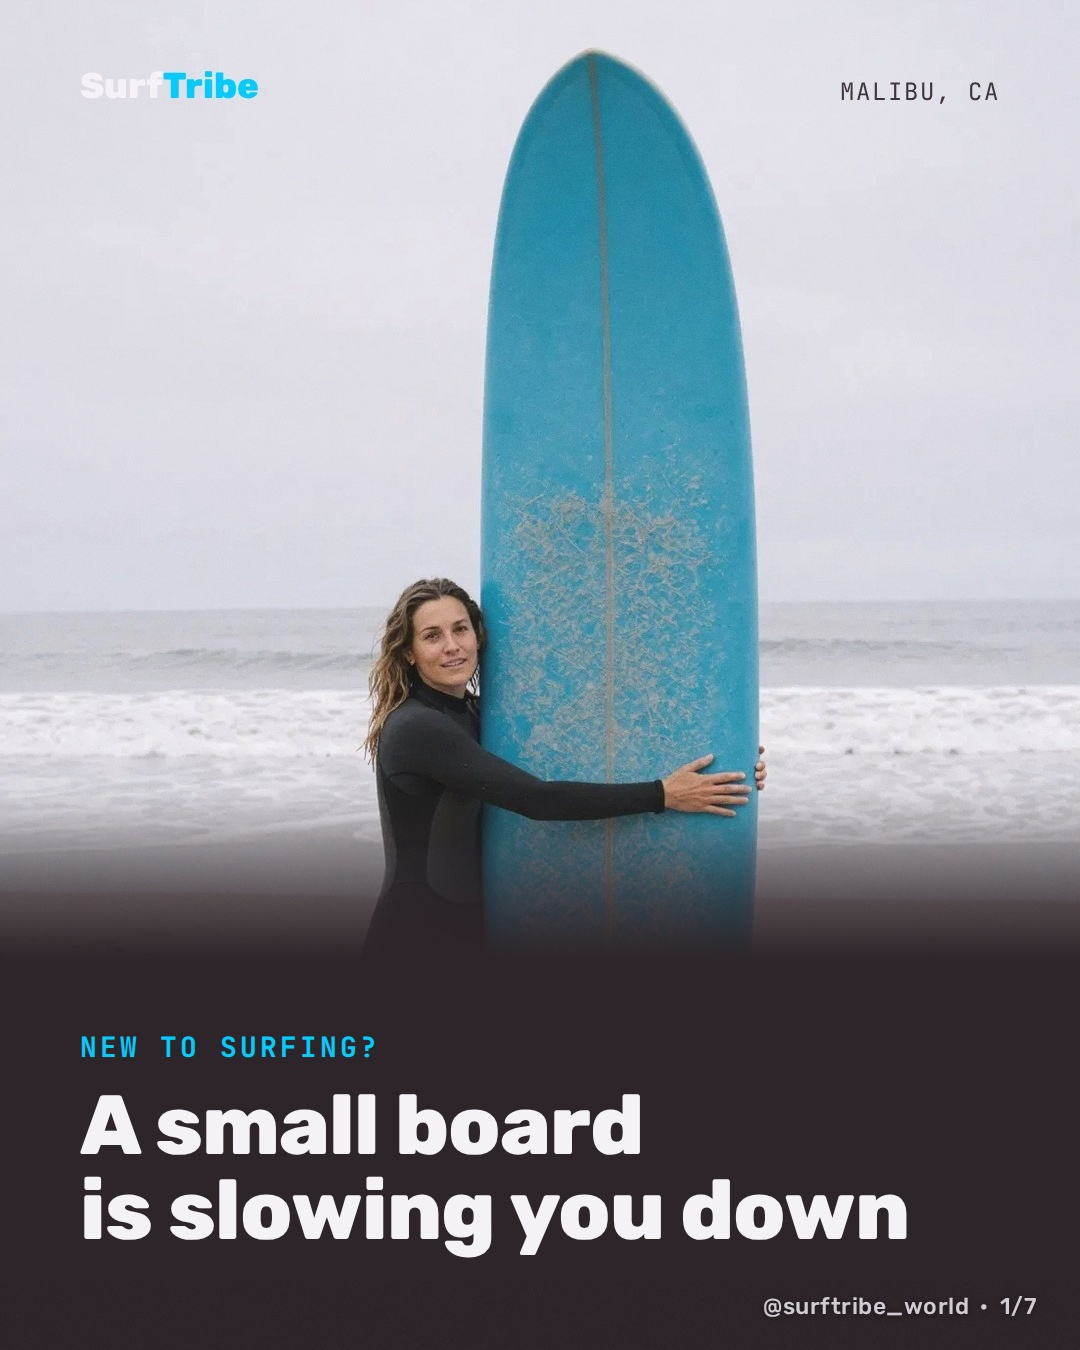
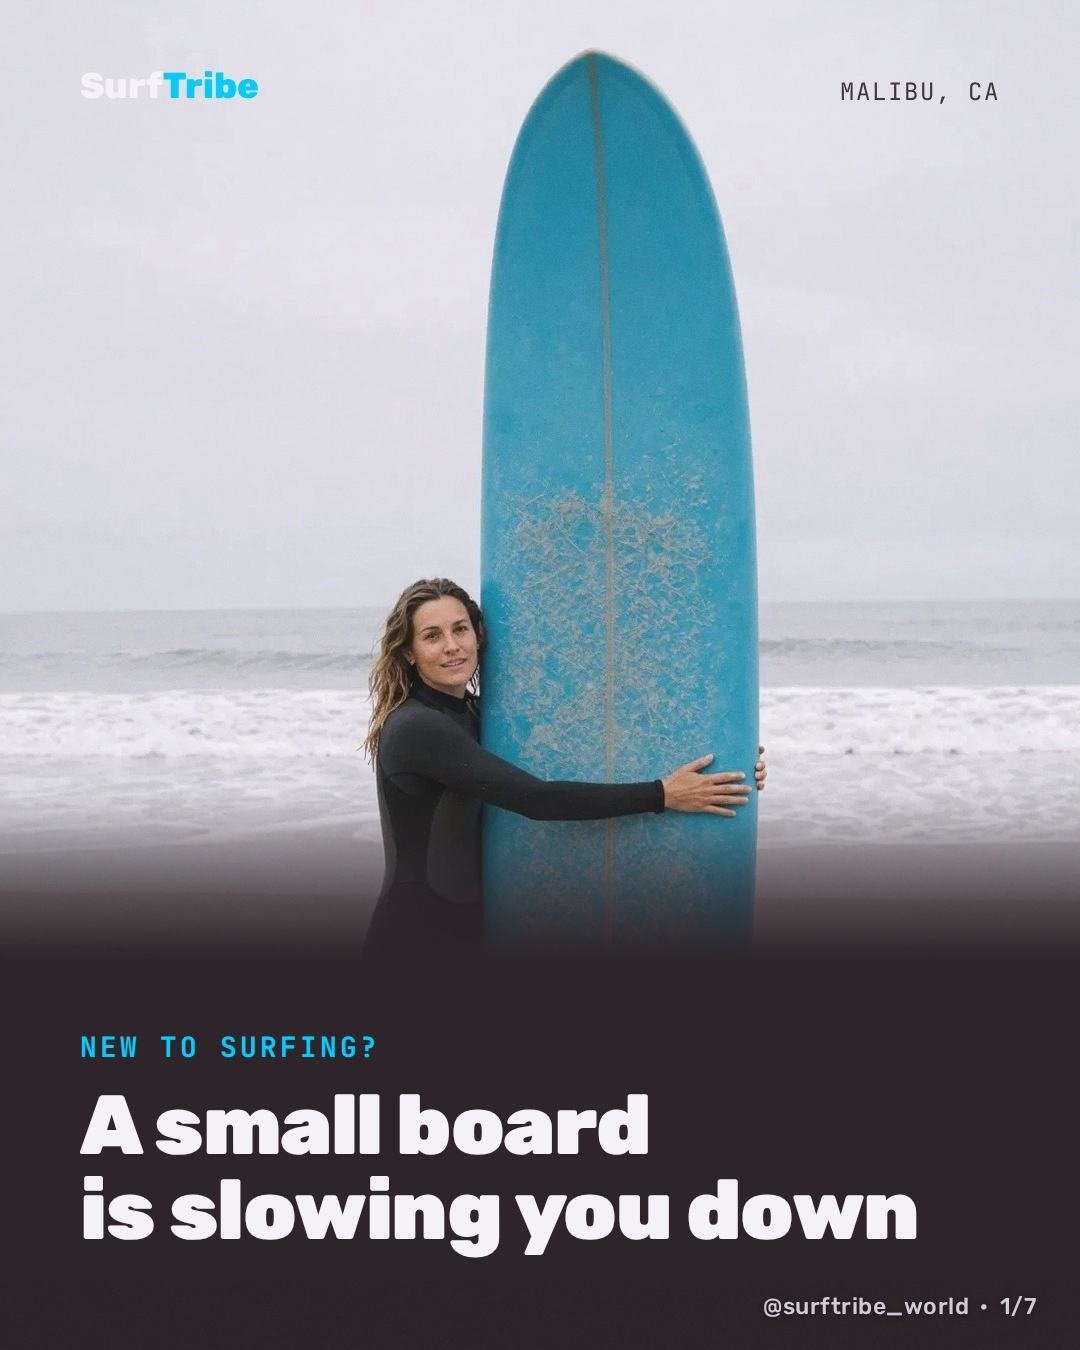
Carousel covers 22-27.10: Rubik 900 titles, EN p12 'No waves? Not a day off'
Claude-Session: https://claude.ai/code/session_01XnbpyAhss2otZgNDdvqCxE

Changed region(s): [[0.1833, 0.8089, 0.8556, 0.9333], [0.0917, 0.8711, 0.1222, 0.9333], [0.0917, 0.8089, 0.1222, 0.84]]

diff --git a/tools/carousel/recover.py b/tools/carousel/recover.py
@@ -23,7 +23,7 @@ def cover_html(img, lang, call, title):
             f"<div style='position:absolute;left:0;right:0;top:960px;height:322px;background:rgb({BG})'></div>"
             f"<div style='position:absolute;{side};bottom:96px;width:920px;direction:{'rtl' if rtl else 'ltr'};text-align:{'right' if rtl else 'left'}'>"
             f"<div style='{callcss};color:{CY};line-height:1;margin-bottom:22px'>{call}</div>"
-            f"<div style='font-family:R;font-weight:800;font-size:{84 if not rtl else 88}px;line-height:1.02;color:{FG};letter-spacing:{-1 if not rtl else 0}px'>{title}</div>"
+            f"<div style='font-family:R;font-weight:900;font-size:{84 if not rtl else 88}px;line-height:1.02;color:{FG};letter-spacing:{-1.5 if not rtl else 0}px'>{title}</div>"
             "</div></body>")
 
 def word_png(pg, text, weight, color):
